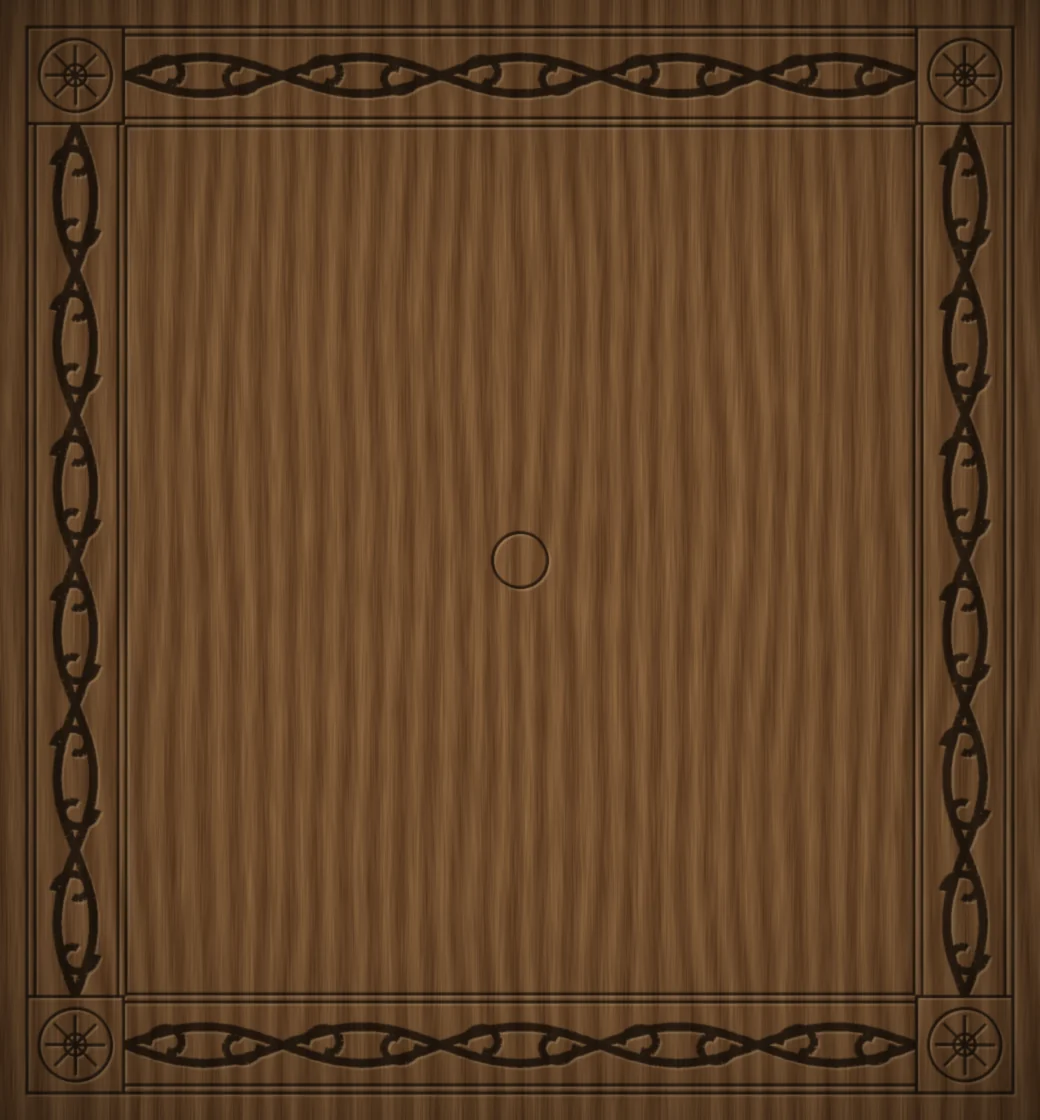
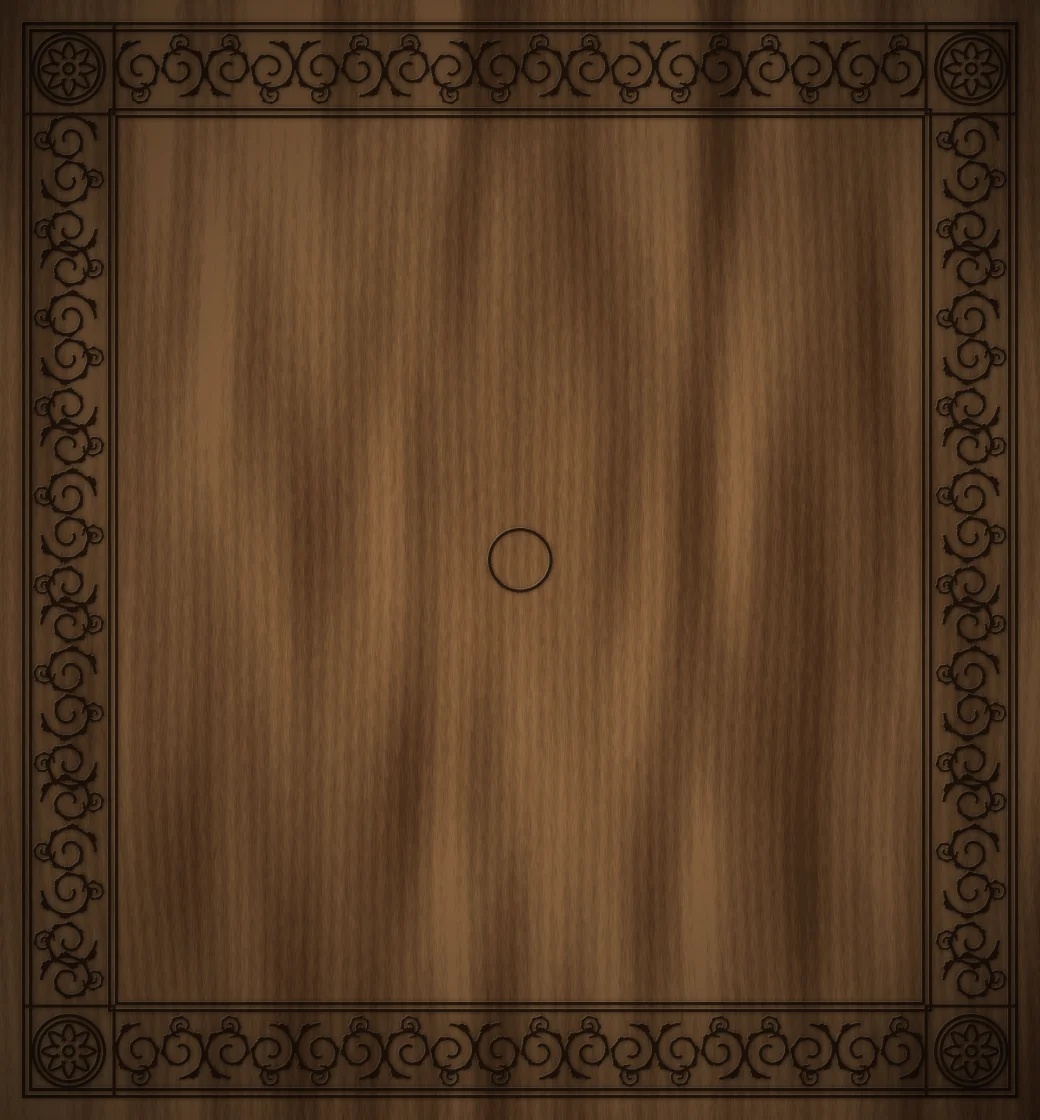
アルケルケ: 並びを絨毯3種+チョーク→ヒストリカル→モダン3種に、彫刻木盤とダマスクを精緻化、木彫り駒・白黒マット駒を追加
Claude-Session: https://claude.ai/code/session_01EiWRAYzNyyFMGgYmiTnvUY

diff --git a/alquerque/i18n-alq.js b/alquerque/i18n-alq.js
@@ -14,7 +14,7 @@ ja: {
   'tr.achain.t': '続けて取る', 'tr.achain.b': '跳んだ先でさらに取れるなら、<b>同じ手番で続けて跳ばなければなりません</b>。', 'tr.achain.task': 'a1の駒で2枚続けて取りましょう。', 'tr.achain.ok': '連続取り！ 一気に2枚です。', 'tr.achain.ng': '取ったあと、続けて次の駒も取りましょう。',
   'tr.awin.t': '勝ち方', 'tr.awin.b': '相手の駒を<b>すべて取る</b>と勝ち。\n相手が動けなくなっても勝ちです。', 'tr.awin.task': '最後の相手の駒を取って勝ちましょう。', 'tr.awin.ok': '勝ちました！', 'tr.awin.ng': '相手の駒を取りましょう。',
   'tr.adraw.t': '引き分け', 'tr.adraw.b': '<b>同じ局面が3回</b>現れるか、取りのない手が<b>80手続く</b>と引き分けです。\n奥まで進んだ駒は横にしか動けません。',
-  'bd.carved': 'ヒストリカル（彫刻木盤）', 'bd.damask': 'モダン（ダマスク布）', 'bd.chalk': 'チョーク（石板）', 'bd.medallion': 'メダリオン絨毯', 'bd.berber': 'ベルベル絨毯', 'bd.kilim': 'キリム', 'bd.patch': 'パッチワーク', 'pcs.brass': '真鍮と瑠璃', 'pcs.felt': '施釉陶器',
+  'bd.carved': 'ヒストリカル（彫刻木盤）', 'bd.damask': 'モダン（ダマスク布）', 'bd.chalk': 'チョーク（石板）', 'pcs.wood': '木彫りの駒', 'pcs.matte': '白黒マット', 'bd.medallion': 'メダリオン絨毯', 'bd.berber': 'ベルベル絨毯', 'bd.kilim': 'キリム', 'bd.patch': 'パッチワーク', 'pcs.brass': '真鍮と瑠璃', 'pcs.felt': '施釉陶器',
   'btn.lesson.title': 'レッスン（準備中）',
 },
 en: {
@@ -31,14 +31,14 @@ en: {
   'tr.achain.t': 'Jumping on', 'tr.achain.b': 'If the piece can capture again where it lands, it <b>must go on jumping</b> in the same turn.', 'tr.achain.task': 'Capture two pieces in a row with a1.', 'tr.achain.ok': 'A double capture!', 'tr.achain.ng': 'After the first capture, go on and take the next one.',
   'tr.awin.t': 'How to win', 'tr.awin.b': '<b>Capture all</b> the opponent\'s pieces to win.\nLeaving them unable to move also wins.', 'tr.awin.task': 'Capture the opponent\'s last piece.', 'tr.awin.ok': 'You won!', 'tr.awin.ng': 'Capture the opponent\'s piece.',
   'tr.adraw.t': 'Draws', 'tr.adraw.b': 'The game is drawn when <b>the same position appears 3 times</b> or <b>80 moves in a row</b> capture nothing.\nA piece on the far row can only move sideways.',
-  'bd.carved': 'Historical (carved wood)', 'bd.damask': 'Modern (damask cloth)', 'bd.chalk': 'Chalk (slate)', 'bd.medallion': 'Medallion carpet', 'bd.berber': 'Berber rug', 'bd.kilim': 'Kilim', 'bd.patch': 'Patchwork', 'pcs.brass': 'Brass and lapis', 'pcs.felt': 'Glazed ceramic',
+  'bd.carved': 'Historical (carved wood)', 'bd.damask': 'Modern (damask cloth)', 'bd.chalk': 'Chalk (slate)', 'pcs.wood': 'Engraved wood', 'pcs.matte': 'Matte black & white', 'bd.medallion': 'Medallion carpet', 'bd.berber': 'Berber rug', 'bd.kilim': 'Kilim', 'bd.patch': 'Patchwork', 'pcs.brass': 'Brass and lapis', 'pcs.felt': 'Glazed ceramic',
 },
-zh: { 'meta.title': '阿尔凯尔凯 — 世界桌游大全', 'title': '阿尔凯尔凯', 'rule.alq': '阿尔凯尔凯（5×5）', 'intro.t': '阿尔凯尔凯是什么游戏？', 'intro.origin': '阿拉伯世界 → 西班牙', 'bd.carved': '历史（雕刻木盘）', 'bd.damask': '现代（锦缎布）', 'bd.chalk': '粉笔（石板）', 'bd.medallion': '圆章地毯', 'bd.berber': '柏柏尔地毯', 'bd.kilim': '基里姆', 'bd.patch': '拼布', 'pcs.brass': '黄铜与青金石', 'pcs.felt': '釉面陶瓷' },
-ko: { 'meta.title': '알케르케 — 세계 보드게임 대전', 'title': '알케르케', 'rule.alq': '알케르케 (5×5)', 'intro.t': '알케르케는 어떤 게임?', 'intro.origin': '아랍 세계 → 스페인', 'bd.carved': '히스토리컬 (조각 목판)', 'bd.damask': '모던 (다마스크 천)', 'bd.chalk': '분필 (석판)', 'bd.medallion': '메달리온 카펫', 'bd.berber': '베르베르 러그', 'bd.kilim': '킬림', 'bd.patch': '패치워크', 'pcs.brass': '황동과 청금석', 'pcs.felt': '유약 도자기' },
-es: { 'meta.title': 'Alquerque — Atlas de juegos de mesa', 'title': 'Alquerque', 'rule.alq': 'Alquerque (5×5)', 'intro.t': '¿Qué es el alquerque?', 'intro.origin': 'Mundo árabe → España', 'bd.carved': 'Histórico (madera tallada)', 'bd.damask': 'Moderno (tela damasco)', 'bd.chalk': 'Tiza (pizarra)', 'bd.medallion': 'Alfombra de medallón', 'bd.berber': 'Alfombra bereber', 'bd.kilim': 'Kilim', 'bd.patch': 'Patchwork', 'pcs.brass': 'Latón y lapislázuli', 'pcs.felt': 'Cerámica vidriada' },
-fr: { 'meta.title': 'Alquerque — Atlas des jeux de société', 'title': 'Alquerque', 'rule.alq': 'Alquerque (5×5)', 'intro.t': 'Qu’est-ce que l’alquerque ?', 'intro.origin': 'Monde arabe → Espagne', 'bd.carved': 'Historique (bois sculpté)', 'bd.damask': 'Moderne (tissu damassé)', 'bd.chalk': 'Craie (ardoise)', 'bd.medallion': 'Tapis à médaillon', 'bd.berber': 'Tapis berbère', 'bd.kilim': 'Kilim', 'bd.patch': 'Patchwork', 'pcs.brass': 'Laiton et lapis', 'pcs.felt': 'Céramique émaillée' },
-pt: { 'meta.title': 'Alquerque — Atlas de jogos de tabuleiro', 'title': 'Alquerque', 'rule.alq': 'Alquerque (5×5)', 'intro.t': 'O que é o alquerque?', 'intro.origin': 'Mundo árabe → Espanha', 'bd.carved': 'Histórico (madeira entalhada)', 'bd.damask': 'Moderno (tecido adamascado)', 'bd.chalk': 'Giz (lousa)', 'bd.medallion': 'Tapete de medalhão', 'bd.berber': 'Tapete berbere', 'bd.kilim': 'Kilim', 'bd.patch': 'Patchwork', 'pcs.brass': 'Latão e lápis-lazúli', 'pcs.felt': 'Cerâmica vidrada' },
-de: { 'meta.title': 'Alquerque — Brettspiel-Atlas', 'title': 'Alquerque', 'rule.alq': 'Alquerque (5×5)', 'intro.t': 'Was ist Alquerque?', 'intro.origin': 'Arabische Welt → Spanien', 'bd.carved': 'Historisch (geschnitztes Holz)', 'bd.damask': 'Modern (Damaststoff)', 'bd.chalk': 'Kreide (Schiefer)', 'bd.medallion': 'Medaillonteppich', 'bd.berber': 'Berberteppich', 'bd.kilim': 'Kelim', 'bd.patch': 'Patchwork', 'pcs.brass': 'Messing und Lapis', 'pcs.felt': 'Glasierte Keramik' },
-hi: { 'meta.title': 'अलकेरके — विश्व बोर्ड गेम एटलस', 'title': 'अलकेरके', 'rule.alq': 'अलकेरके (5×5)', 'intro.t': 'अलकेरके क्या है?', 'intro.origin': 'अरब दुनिया → स्पेन', 'bd.carved': 'ऐतिहासिक (नक्काशीदार लकड़ी)', 'bd.damask': 'आधुनिक (दमिश्क कपड़ा)', 'bd.chalk': 'चॉक (स्लेट)', 'bd.medallion': 'मेडलियन कालीन', 'bd.berber': 'बर्बर गलीचा', 'bd.kilim': 'किलिम', 'bd.patch': 'पैचवर्क', 'pcs.brass': 'पीतल और लाजवर्द', 'pcs.felt': 'चमकीली सिरेमिक' },
-ar: { 'meta.title': 'القِرْقة — أطلس ألعاب الطاولة', 'title': 'القِرْقة (ألكيركي)', 'rule.alq': 'القِرْقة (5×5)', 'intro.t': 'ما هي القِرْقة؟', 'intro.origin': 'العالم العربي ← إسبانيا', 'bd.carved': 'تاريخي (خشب منحوت)', 'bd.damask': 'حديث (قماش دمشقي)', 'bd.chalk': 'طباشير (لوح أردواز)', 'bd.medallion': 'سجادة الميدالية', 'bd.berber': 'بساط أمازيغي', 'bd.kilim': 'كليم', 'bd.patch': 'رقع ملوّنة', 'pcs.brass': 'نحاس ولازورد', 'pcs.felt': 'خزف مزجج' },
+zh: { 'meta.title': '阿尔凯尔凯 — 世界桌游大全', 'title': '阿尔凯尔凯', 'rule.alq': '阿尔凯尔凯（5×5）', 'intro.t': '阿尔凯尔凯是什么游戏？', 'intro.origin': '阿拉伯世界 → 西班牙', 'bd.carved': '历史（雕刻木盘）', 'bd.damask': '现代（锦缎布）', 'bd.chalk': '粉笔（石板）', 'pcs.wood': '雕刻木子', 'pcs.matte': '黑白哑光', 'bd.medallion': '圆章地毯', 'bd.berber': '柏柏尔地毯', 'bd.kilim': '基里姆', 'bd.patch': '拼布', 'pcs.brass': '黄铜与青金石', 'pcs.felt': '釉面陶瓷' },
+ko: { 'meta.title': '알케르케 — 세계 보드게임 대전', 'title': '알케르케', 'rule.alq': '알케르케 (5×5)', 'intro.t': '알케르케는 어떤 게임?', 'intro.origin': '아랍 세계 → 스페인', 'bd.carved': '히스토리컬 (조각 목판)', 'bd.damask': '모던 (다마스크 천)', 'bd.chalk': '분필 (석판)', 'pcs.wood': '조각 나무 말', 'pcs.matte': '흑백 무광', 'bd.medallion': '메달리온 카펫', 'bd.berber': '베르베르 러그', 'bd.kilim': '킬림', 'bd.patch': '패치워크', 'pcs.brass': '황동과 청금석', 'pcs.felt': '유약 도자기' },
+es: { 'meta.title': 'Alquerque — Atlas de juegos de mesa', 'title': 'Alquerque', 'rule.alq': 'Alquerque (5×5)', 'intro.t': '¿Qué es el alquerque?', 'intro.origin': 'Mundo árabe → España', 'bd.carved': 'Histórico (madera tallada)', 'bd.damask': 'Moderno (tela damasco)', 'bd.chalk': 'Tiza (pizarra)', 'pcs.wood': 'Madera grabada', 'pcs.matte': 'Blanco y negro mate', 'bd.medallion': 'Alfombra de medallón', 'bd.berber': 'Alfombra bereber', 'bd.kilim': 'Kilim', 'bd.patch': 'Patchwork', 'pcs.brass': 'Latón y lapislázuli', 'pcs.felt': 'Cerámica vidriada' },
+fr: { 'meta.title': 'Alquerque — Atlas des jeux de société', 'title': 'Alquerque', 'rule.alq': 'Alquerque (5×5)', 'intro.t': 'Qu’est-ce que l’alquerque ?', 'intro.origin': 'Monde arabe → Espagne', 'bd.carved': 'Historique (bois sculpté)', 'bd.damask': 'Moderne (tissu damassé)', 'bd.chalk': 'Craie (ardoise)', 'pcs.wood': 'Bois gravé', 'pcs.matte': 'Noir et blanc mat', 'bd.medallion': 'Tapis à médaillon', 'bd.berber': 'Tapis berbère', 'bd.kilim': 'Kilim', 'bd.patch': 'Patchwork', 'pcs.brass': 'Laiton et lapis', 'pcs.felt': 'Céramique émaillée' },
+pt: { 'meta.title': 'Alquerque — Atlas de jogos de tabuleiro', 'title': 'Alquerque', 'rule.alq': 'Alquerque (5×5)', 'intro.t': 'O que é o alquerque?', 'intro.origin': 'Mundo árabe → Espanha', 'bd.carved': 'Histórico (madeira entalhada)', 'bd.damask': 'Moderno (tecido adamascado)', 'bd.chalk': 'Giz (lousa)', 'pcs.wood': 'Madeira gravada', 'pcs.matte': 'Preto e branco fosco', 'bd.medallion': 'Tapete de medalhão', 'bd.berber': 'Tapete berbere', 'bd.kilim': 'Kilim', 'bd.patch': 'Patchwork', 'pcs.brass': 'Latão e lápis-lazúli', 'pcs.felt': 'Cerâmica vidrada' },
+de: { 'meta.title': 'Alquerque — Brettspiel-Atlas', 'title': 'Alquerque', 'rule.alq': 'Alquerque (5×5)', 'intro.t': 'Was ist Alquerque?', 'intro.origin': 'Arabische Welt → Spanien', 'bd.carved': 'Historisch (geschnitztes Holz)', 'bd.damask': 'Modern (Damaststoff)', 'bd.chalk': 'Kreide (Schiefer)', 'pcs.wood': 'Graviertes Holz', 'pcs.matte': 'Matt Schwarz-Weiß', 'bd.medallion': 'Medaillonteppich', 'bd.berber': 'Berberteppich', 'bd.kilim': 'Kelim', 'bd.patch': 'Patchwork', 'pcs.brass': 'Messing und Lapis', 'pcs.felt': 'Glasierte Keramik' },
+hi: { 'meta.title': 'अलकेरके — विश्व बोर्ड गेम एटलस', 'title': 'अलकेरके', 'rule.alq': 'अलकेरके (5×5)', 'intro.t': 'अलकेरके क्या है?', 'intro.origin': 'अरब दुनिया → स्पेन', 'bd.carved': 'ऐतिहासिक (नक्काशीदार लकड़ी)', 'bd.damask': 'आधुनिक (दमिश्क कपड़ा)', 'bd.chalk': 'चॉक (स्लेट)', 'pcs.wood': 'नक्काशीदार लकड़ी', 'pcs.matte': 'मैट काला-सफ़ेद', 'bd.medallion': 'मेडलियन कालीन', 'bd.berber': 'बर्बर गलीचा', 'bd.kilim': 'किलिम', 'bd.patch': 'पैचवर्क', 'pcs.brass': 'पीतल और लाजवर्द', 'pcs.felt': 'चमकीली सिरेमिक' },
+ar: { 'meta.title': 'القِرْقة — أطلس ألعاب الطاولة', 'title': 'القِرْقة (ألكيركي)', 'rule.alq': 'القِرْقة (5×5)', 'intro.t': 'ما هي القِرْقة؟', 'intro.origin': 'العالم العربي ← إسبانيا', 'bd.carved': 'تاريخي (خشب منحوت)', 'bd.damask': 'حديث (قماش دمشقي)', 'bd.chalk': 'طباشير (لوح أردواز)', 'pcs.wood': 'خشب محفور', 'pcs.matte': 'أبيض وأسود مطفي', 'bd.medallion': 'سجادة الميدالية', 'bd.berber': 'بساط أمازيغي', 'bd.kilim': 'كليم', 'bd.patch': 'رقع ملوّنة', 'pcs.brass': 'نحاس ولازورد', 'pcs.felt': 'خزف مزجج' },
 });

diff --git a/alquerque/index.html b/alquerque/index.html
@@ -1211,8 +1211,8 @@ body.hb-on .hb .controls.hb-menu{display:flex!important}
   html:is([data-rule=dimy],[data-rule=telo],[data-rule=alq]) body .app > .rvbox{grid-area:bx;height:auto;max-height:40vh}
 }
 /* ---- Alquerque: historical (carved wood), modern (damask cloth), chalk (slate) — tools/gen_rugs.py */
-html[data-bd=carved]{--wimg:url(img/rug-carved.webp?v=1);--edge:#3a2414;--wdl:#2b190c}
-html[data-bd=damask]{--wimg:url(img/rug-damask.webp?v=1);--edge:#26323f;--wdl:#eef2f6}
+html[data-bd=carved]{--wimg:url(img/rug-carved.webp?v=2);--edge:#3a2414;--wdl:#2b190c}
+html[data-bd=damask]{--wimg:url(img/rug-damask.webp?v=2);--edge:#26323f;--wdl:#eef2f6}
 html[data-bd=chalk]{--wimg:url(img/rug-chalk.webp?v=1);--edge:#1c1d1e;--wdl:#ecebe6}
 html:is([data-bd=carved],[data-bd=damask],[data-bd=chalk]) .frame{background:var(--wimg) 0 0 / 100% 100%;border-radius:calc(var(--cell) * .1);
   box-shadow:0 calc(var(--cell) * .05) 0 var(--edge),0 40px 70px -26px rgba(0,0,0,.85)}
@@ -1230,6 +1230,20 @@ html[data-bd=chalk] .lines .ln{stroke:#ecebe6;stroke-width:.05;opacity:.88;strok
 html[data-bd=chalk] .lines .pt{fill:#ecebe6;opacity:.85;r:.07} html[data-bd=chalk] .lines .pt.st{r:.09}
 html[data-bd=chalk] .lines .num{fill:#ecebe6;opacity:.7}
 html[data-bd=chalk] .reserve{background:rgba(0,0,0,.3);box-shadow:inset 0 2px 5px rgba(0,0,0,.6)}
+html[data-pcs=wood]{--w1:#e0bc84;--w2:#c49a64;--w4:#7a5634;--b1:#7a5232;--b2:#5a3a20;--b4:#2a180a}
+html[data-pcs=matte]{--w1:#ffffff;--w2:#ecebe6;--w4:#bdbab2;--b1:#3a3a3c;--b2:#1e1e20;--b4:#0a0a0b}
+html:is([data-pcs=wood],[data-pcs=matte]) :is(.pc,.rv)::before, html:is([data-pcs=wood],[data-pcs=matte]) :is(.pc,.rv)::after{display:none}
+html[data-pcs=wood] :is(.pc,.rv).p1{background:url(img/pc-wood-1.webp?v=1) 50% 50% / 100% 100% no-repeat}
+html[data-pcs=wood] :is(.pc,.rv).p2{background:url(img/pc-wood-2.webp?v=1) 50% 50% / 100% 100% no-repeat}
+html[data-pcs=matte] :is(.pc,.rv).p1{background:url(img/pc-matte-1.webp?v=1) 50% 50% / 100% 100% no-repeat}
+html[data-pcs=matte] :is(.pc,.rv).p2{background:url(img/pc-matte-2.webp?v=1) 50% 50% / 100% 100% no-repeat}
+html[data-pcs=wood] .pc.p1{box-shadow:0 calc(var(--cell) * .035) 0 #9a7448,0 calc(var(--cell) * .05) 0 #5a3c1e,0 calc(var(--cell) * .1) calc(var(--cell) * .1) rgba(0,0,0,.5)}
+html[data-pcs=wood] .pc.p2{box-shadow:0 calc(var(--cell) * .035) 0 #4a2e18,0 calc(var(--cell) * .05) 0 #2a180a,0 calc(var(--cell) * .1) calc(var(--cell) * .1) rgba(0,0,0,.5)}
+html[data-pcs=matte] .pc.p1{box-shadow:0 calc(var(--cell) * .035) 0 #c9c6be,0 calc(var(--cell) * .05) 0 #9a978f,0 calc(var(--cell) * .09) calc(var(--cell) * .09) rgba(0,0,0,.45)}
+html[data-pcs=matte] .pc.p2{box-shadow:0 calc(var(--cell) * .035) 0 #111,0 calc(var(--cell) * .05) 0 #000,0 calc(var(--cell) * .09) calc(var(--cell) * .09) rgba(0,0,0,.5)}
+html:is([data-pcs=wood],[data-pcs=matte]) .reserve .rv.p1, html:is([data-pcs=wood],[data-pcs=matte]) .reserve .rv.p2{box-shadow:0 calc(var(--cell) * .015) calc(var(--cell) * .03) rgba(0,0,0,.45)}
+html[data-pcs=wood] .pdisc.p1{background:#c49a64} html[data-pcs=wood] .pdisc.p2{background:#5a3a20}
+html[data-pcs=matte] .pdisc.p1{background:#ecebe6} html[data-pcs=matte] .pdisc.p2{background:#1e1e20}
 /* ---- Alquerque: rug boards (tools/gen_rugs.py) with cream / gold lines; brass + lapis coins and felt balls */
 html:is([data-bd=medallion],[data-bd=kilim],[data-bd=patch]){--edge:#2a1414;--wdl:#f6e6c0}
 html[data-bd=medallion]{--wimg:url(img/rug-medallion.webp?v=7)}
@@ -1597,10 +1611,10 @@ html[data-pcs=felt] .pdisc.p1{background:#e6dcc4} html[data-pcs=felt] .pdisc.p2{
 // Alquerque runs on the Fanorona scripts (fanorona/app.js, engine.js, online*.js) with this game's settings
 window.GAME = { id: 'alquerque', name: 'Alquerque', base: 'alq', rules: ['alq'], store: 'aicoding-alquerque', img: '../images/atlas/alquerque.webp',
   engine: '../fanorona/engine.js?v=fb2', bd: 'medallion', pcs: 'brass',
-  bds: ['medallion', 'kilim', 'patch', 'carved', 'damask', 'chalk', 'abstract', 'dark'], pcss: ['brass', 'felt', 'flat', 'mono'],
-  bdImg: { carved: 'img/rug-carved.webp?v=1', damask: 'img/rug-damask.webp?v=1', chalk: 'img/rug-chalk.webp?v=1', medallion: 'img/rug-medallion.webp?v=7', kilim: 'img/rug-kilim.webp?v=6', patch: 'img/rug-patch.webp?v=6' },
+  bds: ['medallion', 'kilim', 'patch', 'chalk', 'carved', 'damask', 'abstract', 'dark'], pcss: ['brass', 'felt', 'wood', 'matte', 'flat', 'mono'],
+  bdImg: { carved: 'img/rug-carved.webp?v=2', damask: 'img/rug-damask.webp?v=2', chalk: 'img/rug-chalk.webp?v=1', medallion: 'img/rug-medallion.webp?v=7', kilim: 'img/rug-kilim.webp?v=6', patch: 'img/rug-patch.webp?v=6' },
   bdPal: { carved: ['#96704a', '#5e4026', '#2b190c'], damask: ['#3a4c60', '#26323f', '#eef2f6'], chalk: ['#2e3032', '#1c1d1e', '#ecebe6'], medallion: ['#962020', '#5a1c40', '#e2b254'], kilim: ['#cc282e', '#ec6e22', '#f4e8d2'], patch: ['#7a3a5a', '#2a608c', '#f4ead6'] },
-  pcPal: { brass: [['#fff0b8', '#d9ad4a', '#8a6420'], ['#3d5fb8', '#1d3478', '#0b1636']], felt: [['#f6eedc', '#e6dcc4', '#a89a80'], ['#3a5cae', '#1e3a84', '#0e1c48']] } };
+  pcPal: { wood: [['#e0bc84', '#c49a64', '#7a5634'], ['#7a5232', '#5a3a20', '#2a180a']], matte: [['#ffffff', '#ecebe6', '#bdbab2'], ['#3a3a3c', '#1e1e20', '#0a0a0b']], brass: [['#fff0b8', '#d9ad4a', '#8a6420'], ['#3d5fb8', '#1d3478', '#0b1636']], felt: [['#f6eedc', '#e6dcc4', '#a89a80'], ['#3a5cae', '#1e3a84', '#0e1c48']] } };
 window.OL_VARIANTS = ['alq']; window.OL_DB_PREFIX = 'alq/';
 </script>
 <!-- landscape tip (phones held upright) -->
@@ -1637,7 +1651,7 @@ window.OL_VARIANTS = ['alq']; window.OL_DB_PREFIX = 'alq/';
     };
     fit(); addEventListener('resize', fit);
     try { history.replaceState(null, '', location.pathname); } catch (e) {}   // (the iframe took the room / record links along)
-  } else document.write('<script src="../fanorona/i18n.js?v=fb3"><\/script><script src="i18n-alq.js?v=2"><\/script><script src="../fanorona/i18n-online.js?v=stale1"><\/script><script src="../shared/pzbook.js?v=4"><\/script><script src="../shared/placement.js?v=1"><\/script><script src="../shared/rulesoffer.js?v=9"><\/script><script src="../shared/headerbar.js?v=29"><\/script><script src="../shared/flipbtn.js?v=1"><\/script><script src="../shared/cardbar.js?v=5"><\/script><script src="../shared/watchpause.js?v=2"><\/script><script src="../shared/tick.js?v=1"><\/script><script src="../shared/ruletour.js?v=28"><\/script><script src="../fanorona/engine.js?v=fb2"><\/script><script src="firebase-config.js?v=1"><\/script><script src="../shared/onlinesec.js?v=2"><\/script><script src="../fanorona/online.js?v=fb2"><\/script><script src="../shared/resign.js?v=1"><\/script><script src="../fanorona/rvbox.js?v=fb2"><\/script><script src="../shared/coachkit.js?v=14"><\/script><script src="../shared/record.js?v=8"><\/script><script src="../shared/export.js?v=6"><\/script><script src="../fanorona/app.js?v=fb5"><\/script><script src="../fanorona/online-ui.js?v=fb2"><\/script><script src="../fanorona/landtabs.js?v=fb2"><\/script><script src="../shared/pickdrop.js?v=6"><\/script><script src="../shared/ngtabs.js?v=15"><\/script><script src="../shared/resumeng.js?v=1"><\/script>');
+  } else document.write('<script src="../fanorona/i18n.js?v=fb3"><\/script><script src="i18n-alq.js?v=3"><\/script><script src="../fanorona/i18n-online.js?v=stale1"><\/script><script src="../shared/pzbook.js?v=4"><\/script><script src="../shared/placement.js?v=1"><\/script><script src="../shared/rulesoffer.js?v=9"><\/script><script src="../shared/headerbar.js?v=29"><\/script><script src="../shared/flipbtn.js?v=1"><\/script><script src="../shared/cardbar.js?v=5"><\/script><script src="../shared/watchpause.js?v=2"><\/script><script src="../shared/tick.js?v=1"><\/script><script src="../shared/ruletour.js?v=28"><\/script><script src="../fanorona/engine.js?v=fb2"><\/script><script src="firebase-config.js?v=1"><\/script><script src="../shared/onlinesec.js?v=2"><\/script><script src="../fanorona/online.js?v=fb2"><\/script><script src="../shared/resign.js?v=1"><\/script><script src="../fanorona/rvbox.js?v=fb2"><\/script><script src="../shared/coachkit.js?v=14"><\/script><script src="../shared/record.js?v=8"><\/script><script src="../shared/export.js?v=6"><\/script><script src="../fanorona/app.js?v=fb5"><\/script><script src="../fanorona/online-ui.js?v=fb2"><\/script><script src="../fanorona/landtabs.js?v=fb2"><\/script><script src="../shared/pickdrop.js?v=6"><\/script><script src="../shared/ngtabs.js?v=15"><\/script><script src="../shared/resumeng.js?v=1"><\/script>');
 })();
 </script>
 <!-- World Board Game Atlas: shared account sync -->

diff --git a/alquerque/tools/gen_rugs.py b/alquerque/tools/gen_rugs.py
@@ -346,54 +346,119 @@ def scroll_band(d, x0, y0, x1, y1, horiz, w):
             d.line(sc(pts), fill=255, width=int(w * .1) * SS)
 
 
+def acanthus(d, x, y, R, a0, sgn, w, leaves=True, depth=2, lobe=.34):
+    """an acanthus scroll: a spiral stem (radius R, starting angle a0, turning sgn) with lobed leaves on its outer side,
+    a curl at the end and (depth>1) a smaller scroll budding off — the stuff of baroque damask and carved borders."""
+    pts = []
+    for t in np.linspace(0, 1, 70):
+        ang = a0 + sgn * t * 1.55 * 2 * math.pi; r = R * (1 - .82 * t)
+        pts.append((x + r * math.cos(ang), y + r * math.sin(ang)))
+    d.line(sc(pts), fill=255, width=max(1, int(w * SS)), joint='curve')
+    if leaves:
+        for k in range(4, 46, 6):   # lobed leaves along the outer side
+            (px, py), (qx, qy) = pts[k], pts[k + 2]
+            tx, ty = qx - px, qy - py; L = math.hypot(tx, ty) or 1; tx, ty = tx / L, ty / L
+            nx, ny = (-ty, tx) if sgn > 0 else (ty, -tx); nx, ny = -nx, -ny
+            sz = R * lobe * (1 - k / 80)
+            for j, (o, f) in enumerate(((0, 1), (-.5, .72), (.5, .72))):
+                bx, by = px + tx * sz * o * .8, py + ty * sz * o * .8
+                lf = []
+                for u in np.linspace(0, math.pi, 9):   # a rounded lobe
+                    lf.append((bx + tx * sz * .32 * math.cos(u) + nx * sz * .62 * f * math.sin(u), by + ty * sz * .32 * math.cos(u) + ny * sz * .62 * f * math.sin(u)))
+                d.polygon(sc(lf), fill=255)
+    if depth > 1:
+        k = 22; (px, py) = pts[k]; ang = a0 + sgn * k / 70 * 1.55 * 2 * math.pi
+        acanthus(d, px + R * .2 * math.cos(ang), py + R * .2 * math.sin(ang), R * .42, ang + math.pi, -sgn, w * .75, leaves, depth - 1, lobe)
+
+
 def carved(seed=5):
+    """birch plywood stained mid brown (fine straight grain, soft figure), laser-engraved: a recessed border band of running
+    acanthus scrolls between double rules, corner roundels with a rosette knot, a ring round c3."""
     rng = np.random.default_rng(seed)
-    a = wood_tex(rng, (150, 112, 74), (96, 64, 38))
-    bw = S * .62; m0, m1 = S * .16, S * .16 + bw
-    def frame_lines(d):
-        for m in (m0, m0 + 8, m1, m1 - 8): d.rectangle([m * SS, m * SS, (W - m) * SS, (H - m) * SS], outline=255, width=3 * SS)
-        for (cx, cy) in ((m0 + bw / 2, m0 + bw / 2), (W - m0 - bw / 2, m0 + bw / 2), (m0 + bw / 2, H - m0 - bw / 2), (W - m0 - bw / 2, H - m0 - bw / 2)):
-            d.rectangle([(cx - bw / 2) * SS, (cy - bw / 2) * SS, (cx + bw / 2) * SS, (cy + bw / 2) * SS], fill=0, outline=255, width=3 * SS)
-            d.ellipse([(cx - bw * .38) * SS, (cy - bw * .38) * SS, (cx + bw * .38) * SS, (cy + bw * .38) * SS], outline=255, width=3 * SS)
-            for k in range(8):
-                q = k * math.pi / 4
-                d.line(sc([(cx, cy), (cx + bw * .3 * math.cos(q), cy + bw * .3 * math.sin(q))]), fill=255, width=3 * SS)
-            d.ellipse([(cx - bw * .12) * SS, (cy - bw * .12) * SS, (cx + bw * .12) * SS, (cy + bw * .12) * SS], outline=255, width=3 * SS)
-        scroll_band(d, m1, m0 + 8, W - m1, m1 - 8, True, bw - 16); scroll_band(d, m1, H - m1 + 8, W - m1, H - m0 - 8, True, bw - 16)
-        scroll_band(d, m0 + 8, m1, m1 - 8, H - m1, False, bw - 16); scroll_band(d, W - m1 + 8, m1, W - m0 - 8, H - m1, False, bw - 16)
-        cx, cy = P(2, 2); r = S * .18
-        d.ellipse([(cx - r) * SS, (cy - r) * SS, (cx + r) * SS, (cy + r) * SS], outline=255, width=3 * SS)
-    a = engrave(a, lmask(frame_lines), .6)
-    # a darker stain toward the edges, oil sheen
     yy, xx = np.mgrid[0:H, 0:W].astype(np.float64)
-    a *= (1 - .22 * (((xx - W / 2) / (W / 2)) ** 4 + ((yy - H / 2) / (H / 2)) ** 4))[..., None]
-    return Image.fromarray(np.clip(a, 0, 255).astype(np.uint8))
+    warp = gaussian_filter(rng.standard_normal((H, W)), (120, 60)); warp /= warp.std()
+    fine = np.sin(xx / 2.2 + warp * 2.0 + gaussian_filter(rng.standard_normal((H, W)), (200, 2)) * 1.2)
+    fig = gaussian_filter(rng.standard_normal((H, W)), (90, 14)); fig /= fig.std()
+    pores = gaussian_filter(rng.standard_normal((H, W)), (3, .5)); pores /= pores.std()
+    t = np.clip(.45 + .1 * fine + .22 * fig + .06 * pores, 0, 1)
+    base, dark = np.array((156, 116, 78.)), np.array((92, 62, 38.))
+    a = base * (1 - t[..., None]) + dark * t[..., None]
+    bw = S * .58; m0 = S * .14; m1 = m0 + bw
+    def band(dd):
+        for m in (m0, m0 + 7, m1 - 7, m1): dd.rectangle([m * SS, m * SS, (W - m) * SS, (H - m) * SS], outline=255, width=3 * SS)
+    def scrolls(dd):
+        inner = bw - 22; c0 = m0 + bw / 2
+        for horiz, L, fixeds in ((True, W, (c0, H - c0)), (False, H, (c0, W - c0))):
+            n = int((L - 2 * m1) / (inner * 1.25)); step = (L - 2 * m1) / n
+            for f in fixeds:
+                for k in range(n):
+                    u = m1 + step * (k + .5); sg = 1 if k % 2 else -1
+                    x, y = (u, f) if horiz else (f, u)
+                    ox, oy = (step * .22, 0) if horiz else (0, step * .22)
+                    acanthus(dd, x - ox, y - oy, inner * .38, (math.pi / 2 if horiz else 0) * sg, sg, 3.2, True, 2)
+                    acanthus(dd, x + ox, y + oy, inner * .38, (-math.pi / 2 if horiz else math.pi) * sg, sg, 3.2, True, 2)
+        for (cx, cy) in ((c0, c0), (W - c0, c0), (c0, H - c0), (W - c0, H - c0)):
+            dd.rectangle([(cx - bw / 2) * SS, (cy - bw / 2) * SS, (cx + bw / 2) * SS, (cy + bw / 2) * SS], outline=255, width=3 * SS)
+            for r_ in (.4, .34): dd.ellipse([(cx - bw * r_) * SS, (cy - bw * r_) * SS, (cx + bw * r_) * SS, (cy + bw * r_) * SS], outline=255, width=3 * SS)
+            for k in range(8):   # interlaced knot rosette
+                q = k * math.pi / 4
+                pts = [(cx + bw * .3 * math.cos(q + t_) * (1 - abs(t_) * 1.2), cy + bw * .3 * math.sin(q + t_) * (1 - abs(t_) * 1.2)) for t_ in np.linspace(-.5, .5, 12)]
+                dd.line(sc(pts), fill=255, width=3 * SS)
+            dd.ellipse([(cx - bw * .07) * SS, (cy - bw * .07) * SS, (cx + bw * .07) * SS, (cy + bw * .07) * SS], outline=255, width=3 * SS)
+        cx, cy = P(2, 2); r = S * .2
+        dd.ellipse([(cx - r) * SS, (cy - r) * SS, (cx + r) * SS, (cy + r) * SS], outline=255, width=3 * SS)
+    # recessed band: slightly darker and smoother inside the rules
+    rec = lmask(lambda dd: (dd.rectangle([(m0 + 7) * SS, (m0 + 7) * SS, (W - m0 - 7) * SS, (H - m0 - 7) * SS], fill=255), dd.rectangle([(m1 - 7) * SS, (m1 - 7) * SS, (W - m1 + 7) * SS, (H - m1 + 7) * SS], fill=0)))
+    a *= (1 - .12 * gaussian_filter(rec, 1))[..., None]
+    m = np.clip(lmask(band) + lmask(scrolls), 0, 1)
+    halo = gaussian_filter(m, 2.2)   # laser char round the cut
+    a *= (1 - .35 * np.clip(halo * 1.6, 0, 1))[..., None]
+    a = a * (1 - .78 * m[..., None]) + np.array((38, 22, 12.)) * .78 * m[..., None]
+    lip = np.clip(np.roll(np.roll(m, -1, 0), -1, 1) - m, 0, 1)
+    a += (lip * 30)[..., None]
+    v = 1 - .28 * (((xx - W / 2) / (W / 2)) ** 2 + ((yy - H / 2) / (H / 2)) ** 2)
+    return Image.fromarray(np.clip(a * v[..., None], 0, 255).astype(np.uint8))
 
 
 def damask(seed=6):
+    """blue-grey microfibre cloth printed with a large baroque damask (mirrored acanthus scrolls round a palmette),
+    tone on tone, with a pinked edge."""
     rng = np.random.default_rng(seed)
-    base = np.array((58, 76, 96), float); hi = np.array((94, 112, 134), float)
-    def motif(d):
-        tw, th = S * 1.9, S * 2.3
+    base = np.array((70, 86, 108.)); hi = np.array((112, 128, 150.)); lo = np.array((56, 70, 90.))
+    tw, th = S * 2.2, S * 2.6
+    def motif(dd):
         for j in range(-1, int(H / th) + 2):
             for i in range(-1, int(W / tw) + 2):
-                cx = i * tw + (tw / 2 if j % 2 else 0); cy = j * th
-                for sgn in (1, -1):   # mirrored acanthus scrolls
-                    for (r0, a0, turns, w) in ((S * .5, -1.2, 1.5, 6), (S * .32, .6, 1.2, 5), (S * .22, 2.2, 1.0, 4)):
-                        pts = [(cx + sgn * (r0 * (1 - t * .75) * math.cos(a0 + t * turns * 2 * math.pi)) + sgn * S * .2, cy + r0 * (1 - t * .75) * math.sin(a0 + t * turns * 2 * math.pi)) for t in np.linspace(0, 1, 60)]
-                        d.line(sc(pts), fill=255, width=int(w * SS))
-                        ex, ey = pts[0]
-                        d.polygon(sc([(ex, ey), (ex + sgn * 18, ey - 30), (ex + sgn * 6, ey - 50), (ex - sgn * 8, ey - 26)]), fill=255)
-                d.polygon(sc([(cx, cy - S * .55), (cx + S * .12, cy - S * .25), (cx, cy), (cx - S * .12, cy - S * .25)]), fill=255)
-                d.ellipse([(cx - 10) * SS, (cy + S * .12 - 10) * SS, (cx + 10) * SS, (cy + S * .12 + 10) * SS], fill=255)
-    m = gaussian_filter(lmask(motif), 1.2) * .55
-    a = base * (1 - m[..., None]) + hi * m[..., None]
-    fab = gaussian_filter(rng.standard_normal((H, W)), .6); fab /= fab.std()
+                cx = i * tw + (tw / 2 if j % 2 else 0); cy = j * th + th * .1
+                for sg in (1, -1):
+                    acanthus(dd, cx + sg * S * .32, cy - S * .25, S * .46, math.pi if sg > 0 else 0, -sg, 7, True, 3, .62)
+                    acanthus(dd, cx + sg * S * .45, cy + S * .55, S * .32, -math.pi / 2, sg, 6, True, 2, .6)
+                    # long sweeping fronds
+                    pts = [(cx + sg * (S * .05 + S * .9 * t_), cy - S * .9 * t_ * t_ + S * .1) for t_ in np.linspace(0, 1, 30)]
+                    dd.line(sc(pts), fill=255, width=6 * SS)
+                    for k in range(3, 28, 4):
+                        px, py = pts[k]; rr_ = 16 * (1 - k / 40)
+                        dd.ellipse([(px + sg * 10 - rr_) * SS, (py - 14 - rr_ * .6) * SS, (px + sg * 10 + rr_) * SS, (py - 14 + rr_ * .6) * SS], fill=255)
+                # central palmette
+                pal = [(cx, cy - S * .95), (cx + S * .16, cy - S * .55), (cx + S * .1, cy - S * .2), (cx, cy - S * .05), (cx - S * .1, cy - S * .2), (cx - S * .16, cy - S * .55)]
+                dd.polygon(sc(pal), fill=255)
+                for k in range(5):
+                    yk = cy - S * .2 - k * S * .14
+                    dd.line(sc([(cx - S * .08, yk), (cx, yk - S * .05), (cx + S * .08, yk)]), fill=0, width=3 * SS)
+                dd.ellipse([(cx - 14) * SS, (cy + S * .1 - 14) * SS, (cx + 14) * SS, (cy + S * .1 + 14) * SS], fill=255)
+    def shadow_motif(dd):   # a smaller, darker counter-pattern between the motifs
+        for j in range(-1, int(H / th) + 2):
+            for i in range(-1, int(W / tw) + 2):
+                cx = i * tw + (0 if j % 2 else tw / 2); cy = j * th + th * .6
+                for sg in (1, -1): acanthus(dd, cx + sg * S * .18, cy, S * .24, 0 if sg > 0 else math.pi, sg, 5, True, 1, .6)
+    m = gaussian_filter(lmask(motif), .9); m2 = gaussian_filter(lmask(shadow_motif), .9)
+    a = base * (1 - .7 * m[..., None]) + hi * .7 * m[..., None]
+    a = a * (1 - .6 * m2[..., None]) + lo * .6 * m2[..., None]
     yy, xx = np.mgrid[0:H, 0:W].astype(np.float64)
-    a *= (1 + .025 * fab + .02 * np.sin(xx * 2.1) * np.sin(yy * 2.1))[..., None]
-    # pinked (zig-zag) edge
-    out = np.clip(a, 0, 255).astype(np.uint8); img = Image.fromarray(out)
-    return img
+    fab = gaussian_filter(rng.standard_normal((H, W)), .5); fab /= fab.std()
+    sheen = gaussian_filter(rng.standard_normal((H, W)), 80); sheen /= sheen.std()
+    a *= (1 + .03 * fab + .035 * sheen + .015 * np.sin(xx * 1.7 + yy * 1.7))[..., None]
+    return Image.fromarray(np.clip(a, 0, 255).astype(np.uint8))
 
 
 def chalk(seed=7):

diff --git a/alquerque/tools/gen_pieces.py b/alquerque/tools/gen_pieces.py
@@ -129,3 +129,45 @@ def ceramic(light):
 
 os.makedirs(OUT, exist_ok=True)
 brass(); lapis(); ceramic(True); ceramic(False)
+
+def woodpc(light):
+    """historical: a birch disc (light) / walnut-stained disc (dark), laser-engraved rosette / eight-petal knot, matte oil."""
+    c = N / 2
+    warp = gaussian_filter(rng.standard_normal((N, N)), 30); warp /= warp.std()
+    g = np.sin(xx / 2.6 + warp * 1.4); fig = noise(20, 1)
+    t = np.clip(.45 + .12 * g + .2 * fig + noise(.8, .05), 0, 1)
+    b0, b1 = ((206, 166, 112), (160, 118, 72)) if light else ((116, 76, 44), (70, 44, 24))
+    alb = np.array(b0, float) * (1 - t[..., None]) + np.array(b1, float) * t[..., None]
+    def emb(d, s):
+        d.ellipse([s(c - N * .37), s(c - N * .37), s(c + N * .37), s(c + N * .37)], outline=255, width=int(s(N * .018)))
+        d.ellipse([s(c - N * .33), s(c - N * .33), s(c + N * .33), s(c + N * .33)], outline=255, width=int(s(N * .008)))
+        n = 5 if light else 8
+        for k in range(n):   # petals (rose for the light, knot for the dark)
+            a = k * 2 * math.pi / n - math.pi / 2
+            px, py = c + N * .14 * math.cos(a), c + N * .14 * math.sin(a)
+            r = N * (.11 if light else .085)
+            d.ellipse([s(px - r), s(py - r), s(px + r), s(py + r)], outline=255, width=int(s(N * .016)))
+        d.ellipse([s(c - N * .05), s(c - N * .05), s(c + N * .05), s(c + N * .05)], fill=255)
+        if light:
+            for k in range(5):
+                a = k * 2 * math.pi / 5 - math.pi / 2 + math.pi / 5
+                d.polygon([(s(c + N * .27 * math.cos(a)), s(c + N * .27 * math.sin(a))), (s(c + N * .2 * math.cos(a - .18)), s(c + N * .2 * math.sin(a - .18))), (s(c + N * .2 * math.cos(a + .18)), s(c + N * .2 * math.sin(a + .18)))], fill=255)
+    m = mask(emb, .6)
+    halo = gaussian_filter(m, 2.5)
+    alb = alb * (1 - .25 * np.clip(halo * 1.5, 0, 1))[..., None]
+    alb = alb * (1 - .8 * m[..., None]) + np.array((40, 24, 12.)) * .8 * m[..., None]
+    h = (1 - rr ** 6) * 6 - m * 1.2 - np.clip((rr - .92) / .08, 0, 1) * 4
+    col = shade(gaussian_filter(h, .8), alb, metal=0, gloss=8, spec=.05, amb=.58)
+    save(col, f'pc-wood-{1 if light else 2}.webp', edge_dark=.35)
+
+
+def mattepc(light):
+    """modern: plain white / black matte-painted wooden discs (a little brush texture and a soft bevel)."""
+    alb = np.zeros((N, N, 3)); alb[:] = (236, 234, 228) if light else (30, 30, 32)
+    alb *= (1 + noise(.8, .008 if light else .04) + noise(12, .01))[..., None]
+    h = (1 - rr ** 8) * 7 - np.clip((rr - .9) / .1, 0, 1) * 3
+    col = shade(gaussian_filter(h, 1.2), alb, metal=0, gloss=10, spec=.06 if light else .1, amb=.72 if light else .62)
+    save(col, f'pc-matte-{1 if light else 2}.webp', edge_dark=.25 if light else .1)
+
+
+woodpc(True); woodpc(False); mattepc(True); mattepc(False)
